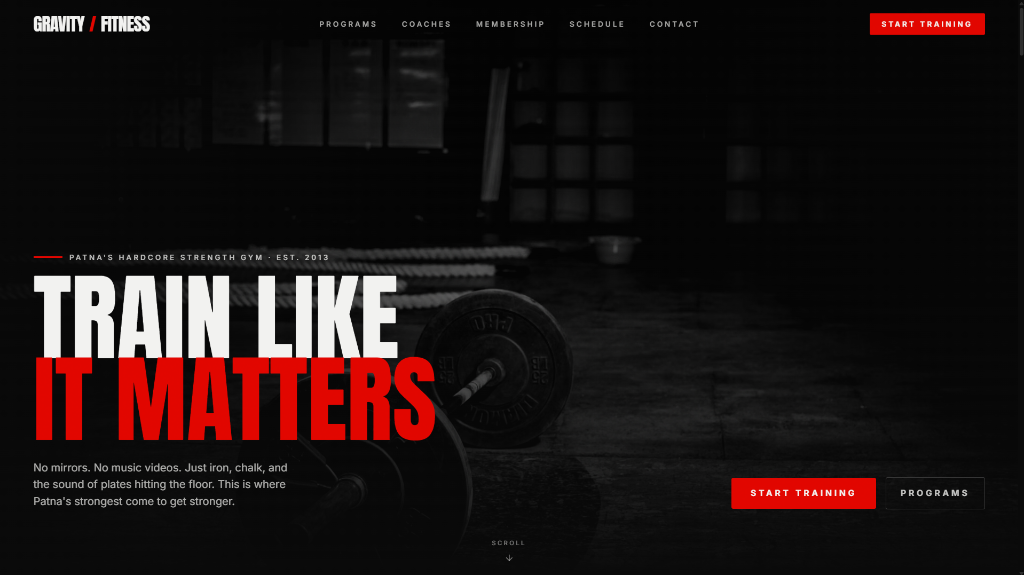
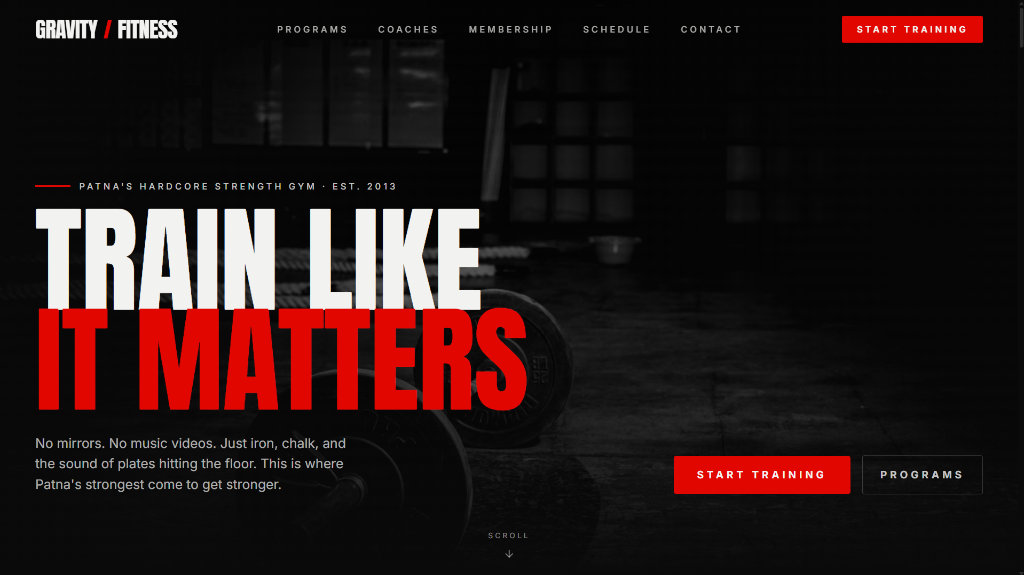
Fix UI gallery hovers, replace images, update README, and fix Vite ERESOLVE

diff --git a/src/components/Gallery.tsx b/src/components/Gallery.tsx
@@ -17,7 +17,7 @@ const IMAGES = [
     span: '',
   },
   {
-    src: 'https://images.pexels.com/photos/28080/pexels-photo/pexels-photo-28080.jpeg?auto=compress&cs=tinysrgb&w=700',
+    src: '/dumbbell-rack.png',
     alt: 'Black and white dumbbell rack, dramatic lighting',
     span: '',
   },
@@ -25,12 +25,7 @@ const IMAGES = [
     src: 'https://images.pexels.com/photos/1638324/pexels-photo-1638324.jpeg?auto=compress&cs=tinysrgb&w=700',
     alt: 'Black and white gym interior with heavy equipment, dramatic lighting',
     span: '',
-  },
-  {
-    src: 'https://images.pexels.com/photos/7030121/pexels-photo-7030121.jpeg?auto=compress&cs=tinysrgb&w=900',
-    alt: 'Black and white athlete mid-squat in power rack, chalk dust in the air',
-    span: 'lg:col-span-2',
-  },
+  }
 ];
 
 export function Gallery() {
@@ -69,10 +64,10 @@ export function Gallery() {
                 <img
                   src={img.src}
                   alt={img.alt}
-                  className="w-full h-full object-cover grayscale contrast-120 group-hover:scale-105 group-hover:grayscale-[40%] transition-all duration-700"
+                  className="w-full h-full object-cover grayscale contrast-120 group-hover:scale-105 group-hover:grayscale-0 transition-all duration-700"
                   loading="lazy"
                 />
-                <div className="absolute inset-0 bg-ink/10 group-hover:bg-ink/0 transition-colors duration-500" />
+                <div className="absolute inset-0 bg-ink/10 group-hover:bg-ink/0 transition-colors duration-500 pointer-events-none" />
               </div>
             </Reveal>
           ))}

diff --git a/src/components/Programs.tsx b/src/components/Programs.tsx
@@ -60,10 +60,10 @@ export function Programs() {
                   <img
                     src={program.img}
                     alt={`Black and white ${program.title} training action shot, dramatic lighting`}
-                    className="w-full h-full object-cover grayscale contrast-125 group-hover:scale-105 group-hover:grayscale-[60%] transition-all duration-700"
+                    className="w-full h-full object-cover grayscale contrast-125 group-hover:scale-105 group-hover:grayscale-0 transition-all duration-700"
                     loading="lazy"
                   />
-                  <div className="absolute inset-0 bg-gradient-to-t from-ink via-ink/20 to-transparent" />
+                  <div className="absolute inset-0 bg-gradient-to-t from-ink via-ink/20 to-transparent pointer-events-none" />
                   <span className="absolute top-4 left-4 text-[10px] font-grotesk font-bold uppercase tracking-widest text-bone bg-ink/60 backdrop-blur px-3 py-1.5 rounded-[2px] border border-ash-300">
                     {program.tag}
                   </span>

diff --git a/src/components/Coaches.tsx b/src/components/Coaches.tsx
@@ -70,7 +70,7 @@ export function Coaches() {
                     className="w-full h-full object-cover grayscale contrast-110 group-hover:scale-105 group-hover:grayscale-0 transition-all duration-700"
                     loading="lazy"
                   />
-                  <div className="absolute inset-0 bg-gradient-to-t from-ink/80 via-transparent to-transparent" />
+                  <div className="absolute inset-0 bg-gradient-to-t from-ink/80 via-transparent to-transparent pointer-events-none" />
                   <div className="absolute bottom-0 left-0 right-0 p-5">
                     <span className="text-[10px] font-grotesk font-bold uppercase tracking-widest text-blood bg-ink/80 backdrop-blur px-2.5 py-1 rounded-[2px]">
                       {coach.specialty}

diff --git a/README.md b/README.md
@@ -1,10 +1,63 @@
-# Gravity Fitness Gym
+# 🏋️♂️ Gravity Fitness Gym
 
-A premium, hardcore web application for **Gravity Fitness Gym** in Patna — the ultimate training ground for powerlifters, strongmen, and strength athletes. Built with a focus on raw aesthetics, premium dark-mode visuals, and smooth interactive elements.
+A premium, hardcore web application for **Gravity Fitness Gym** in Patna — the ultimate training ground for powerlifters, strongmen, and strength athletes. Built with a focus on raw aesthetics, premium dark-mode visuals, film-grain texture, and smooth interactive elements.
 
+---
 
+## 📸 Screenshots
 
-## Getting Started
+Here is a visual walkthrough of the Gravity Fitness Gym web application:
+
+### 1. Hero Section
+The high-impact entryway to the gym, setting the hardcore tone with dramatic black-and-white imagery and bold typography.
+![Hero Section](screenshots/hero.png)
+
+### 2. Programs & counter stats
+Highlights what the gym offers (Powerlifting, Strength & Conditioning, Personal Coaching, and Open Gym) alongside live counter statistics of members trained, years open, and national champions.
+![Programs Section](screenshots/programs.png)
+
+### 3. Weekly Training Schedule
+An interactive weekly timetable showcasing slots for specialized classes.
+![Class Schedule](screenshots/schedule.png)
+
+### 4. Membership Plans
+Pricing comparison cards (Basic, Pro, Elite) designed for clear conversion.
+![Membership Plans](screenshots/membership.png)
+
+### 5. Member Testimonials
+High-contrast quotes and feedback from real members who have achieved massive PRs and rehabbed injuries.
+![Member Testimonials](screenshots/testimonials.png)
+
+### 6. The Gym Floor (Facility Gallery)
+Showcasing the premium equipment and facility floor through a sleek grid layout.
+![The Gym Floor](screenshots/facility.png)
+
+### 7. Coaches Profiles
+Lifting credentials, specialties, and bios of the certified coaching staff.
+![Coaches Profiles](screenshots/coaches.png)
+
+### 8. Contact & Enquiries Form
+A public lead-generation contact form allowing potential lifters to submit their details directly to the database.
+![Contact & Enquiries](screenshots/contact.png)
+
+---
+
+## ⚡ Features
+
+- **Modern Dark & Hardcore Aesthetic**: Custom dark color palette (`ink` & `ash` gray shades) highlighted with high-contrast `blood` red accents.
+- **Cinematic Film Grain Overlay**: Immersive visual atmosphere utilizing a high-performance SVG noise overlay.
+- **Sleek Custom Scrollbar**: Premium custom scrollbar matching the dark theme of the website with animated hover transitions to the signature red color.
+- **Interactive Component Layouts**:
+  - **Programs Grid**: Spotlighting Powerlifting, Strength & Conditioning, Bodybuilding, etc.
+  - **Coaches Profiles**: Displaying the lifting credentials and specializations of the training team.
+  - **Interactive Timetable**: Clean horizontal scrollable timetable displaying weekly class slots.
+  - **Membership Packages**: Visual tier cards comparing Basic, Pro, and Elite levels.
+  - **Contact & Enquiries Form**: Fully functional lead generation form integrated with a database backend.
+- **Framer Motion Animations**: Reveal animations and scroll-triggered transitions for interactive feedback.
+
+---
+
+## 🚀 Getting Started
 
 Follow these steps to run the project locally on your machine:
 
@@ -22,7 +75,14 @@ cd fitness-iron-core
 npm install
 ```
 
-### 3. Environment Setup
+### 3. Database Setup (Supabase)
+
+This project uses **Supabase** as its backend database to store contact form enquiries.
+
+1. Create a free project at [Supabase](https://supabase.com/).
+2. Run the migration script located in `supabase/migrations/20260710073519_create_enquiries_table.sql` inside the Supabase SQL Editor. This will create the `enquiries` table and configure Row Level Security (RLS) policies for anonymous form submissions.
+
+### 4. Environment Setup
 
 Create a `.env` file in the root directory and add your Supabase credentials:
 
@@ -31,7 +91,7 @@ VITE_SUPABASE_URL=your_supabase_url
 VITE_SUPABASE_ANON_KEY=your_supabase_anon_key
 ```
 
-### 4. Running the Development Server
+### 5. Running the Development Server
 
 Start the Vite local dev server:
 
@@ -41,7 +101,7 @@ npm run dev
 
 Open your browser and navigate to `http://localhost:5173`.
 
-### 5. Build for Production
+### 6. Build for Production
 
 To build the application for deployment:
 
@@ -53,43 +113,7 @@ The output files will be generated inside the `dist/` directory.
 
 ---
 
-## 📸 Screenshots
-
-
-![Hero Section](screenshots/hero.png)
-
-
-![Programs Section](screenshots/programs.png)
-
-
-![Class Schedule](screenshots/schedule.png)
-
-
-![Membership Plans](screenshots/membership.png)
-
-
-![Coaches Profiles](screenshots/coaches.png)
-
-![Contact & Enquiries](screenshots/contact.png)
-
----
-
-## Features
-
-- **Modern Dark & Hardcore Aesthetic**: Custom dark color palette (`ink` & `ash` gray shades) highlighted with high-contrast `blood` red accents.
-- **Cinematic Film Grain Overlay**: Immersive visual atmosphere utilizing a high-performance SVG noise overlay.
-- **Sleek Custom Scrollbar**: Premium custom scrollbar matching the dark theme of the website with animated hover transitions to the signature red color.
-- **Interactive Component Layouts**:
-  - **Programs Grid**: Spotlighting Powerlifting, Strength & Conditioning, Bodybuilding, etc.
-  - **Coaches Profiles**: Displaying the lifting credentials and specializations of the training team.
-  - **Interactive Timetable**: Clean horizontal scrollable timetable displaying weekly class slots.
-  - **Membership Packages**: Visual tier cards comparing Basic, Pro, and Elite levels.
-  - **Contact & Enquiries Form**: Fully functional lead generation form integrated with a backend database.
-- **Framer Motion Animations**: Reveal animations and scroll-triggered transitions for interactive feedback.
-
----
-
-## Tech Stack
+## 🛠️ Tech Stack
 
 - **Frontend Core**: [React 18](https://react.dev/) & [TypeScript](https://www.typescriptlang.org/)
 - **Bundler**: [Vite](https://vite.dev/)
@@ -100,10 +124,11 @@ The output files will be generated inside the `dist/` directory.
 
 ---
 
-## Project Structure
+## 📂 Project Structure
 
 ```text
 fitness-iron-core/
+├── public/               # Static public assets (custom B&W dumbbell rack image, etc.)
 ├── screenshots/          # Web previews and images for documentation
 ├── src/
 │   ├── components/       # Reusable React components (Navbar, Hero, Stats, etc.)